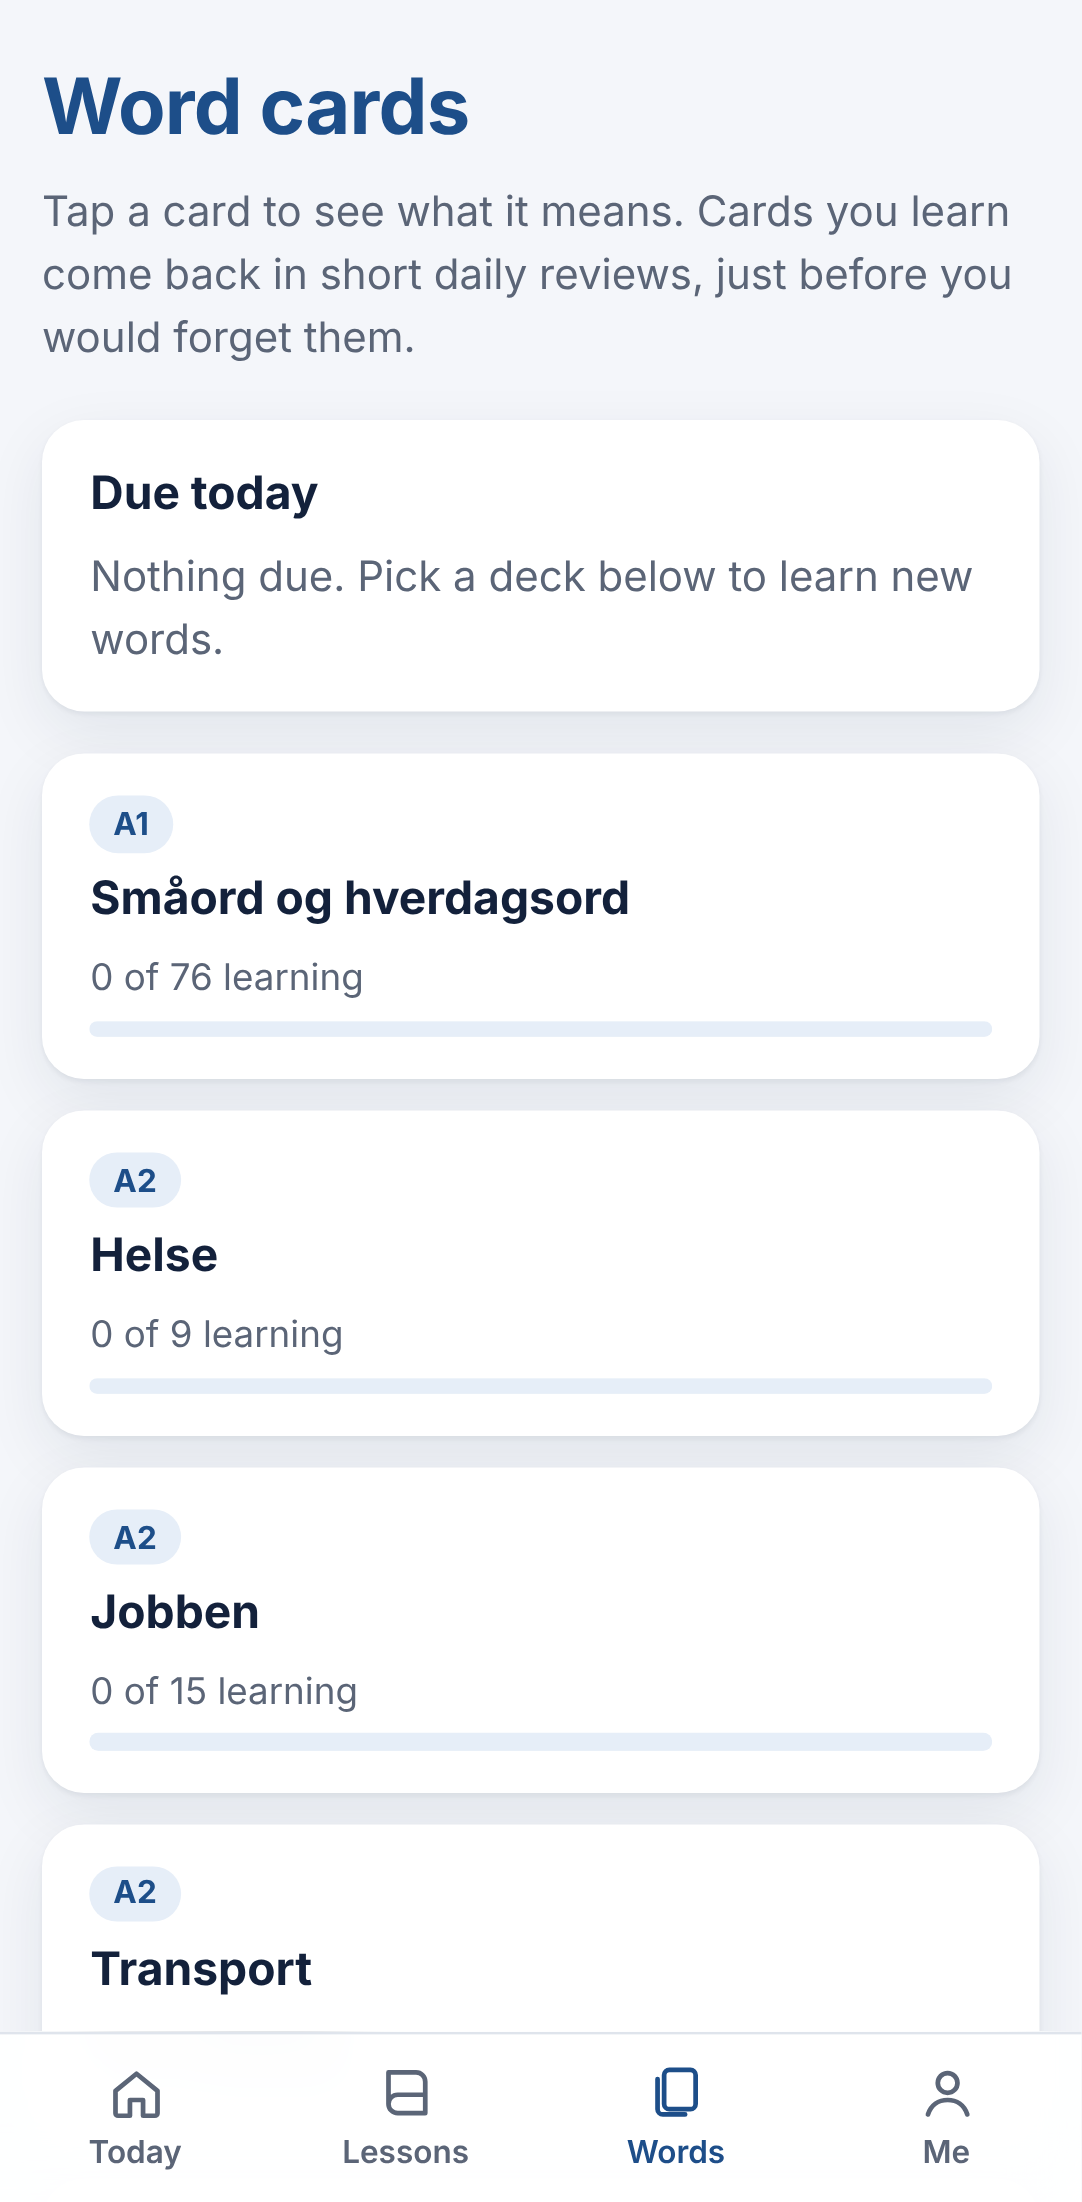
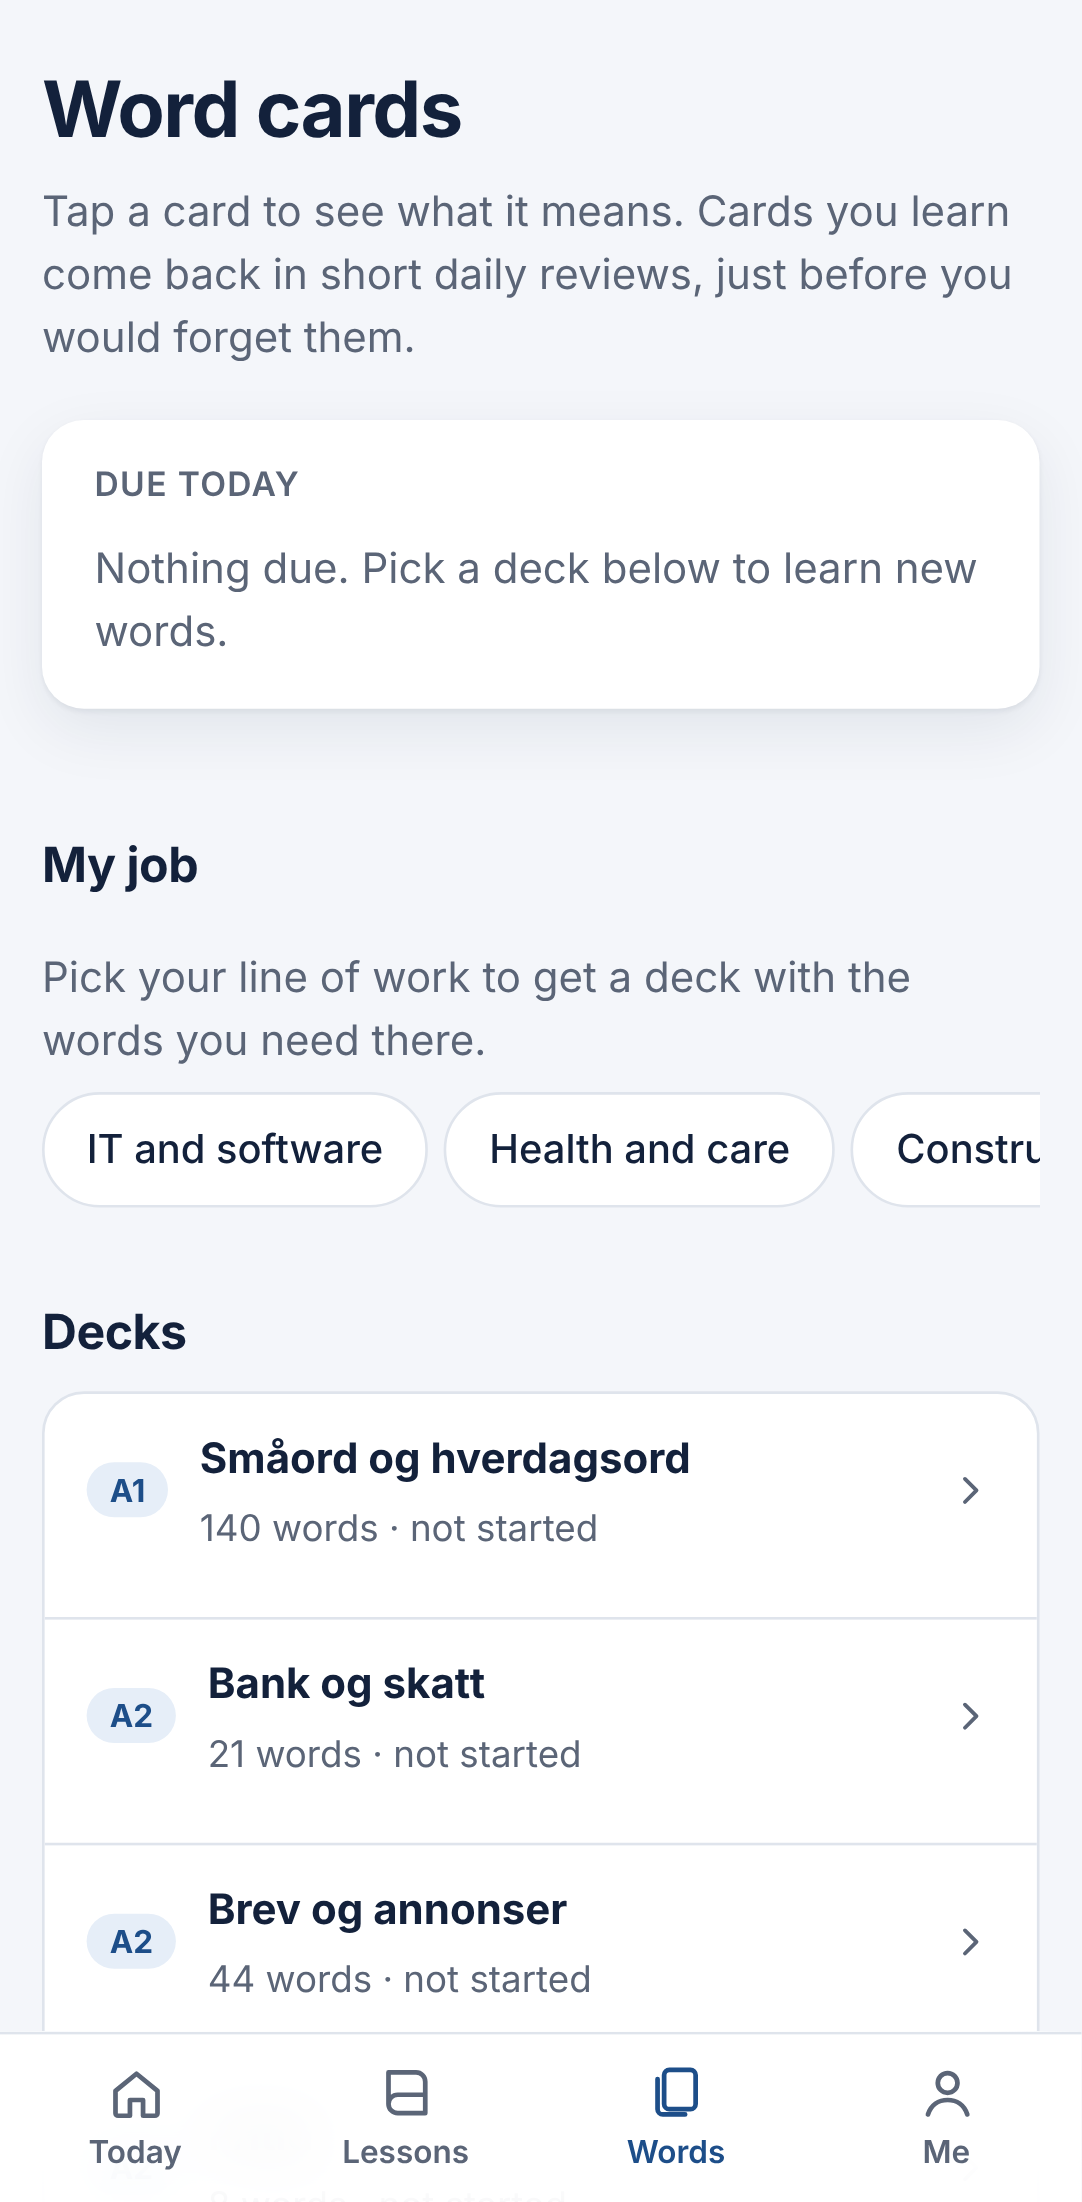
docs: update README screenshots for the redesign

diff --git a/README.md b/README.md
@@ -14,9 +14,9 @@ _Tjuvstart_ is Norwegian for a false start: getting going before the starting si
 > Status: early development. Try it at [ismailsardi.github.io/Tjuvstart](https://ismailsardi.github.io/Tjuvstart/), and see the [product specification](docs/spec.md).
 
 <p>
-  <img src="docs/screenshots/today.png" alt="Today screen with the word review and the next lesson" width="250">
+  <img src="docs/screenshots/today.png" alt="Today screen with the daily session, streak progress and the current track" width="250">
   <img src="docs/screenshots/word-card.png" alt="A flipped word card with its meaning and an example sentence" width="250">
-  <img src="docs/screenshots/decks.png" alt="Word decks by level with learning progress" width="250">
+  <img src="docs/screenshots/decks.png" alt="Words screen with today's review, job decks and the deck list" width="250">
 </p>
 
 ## What works today
